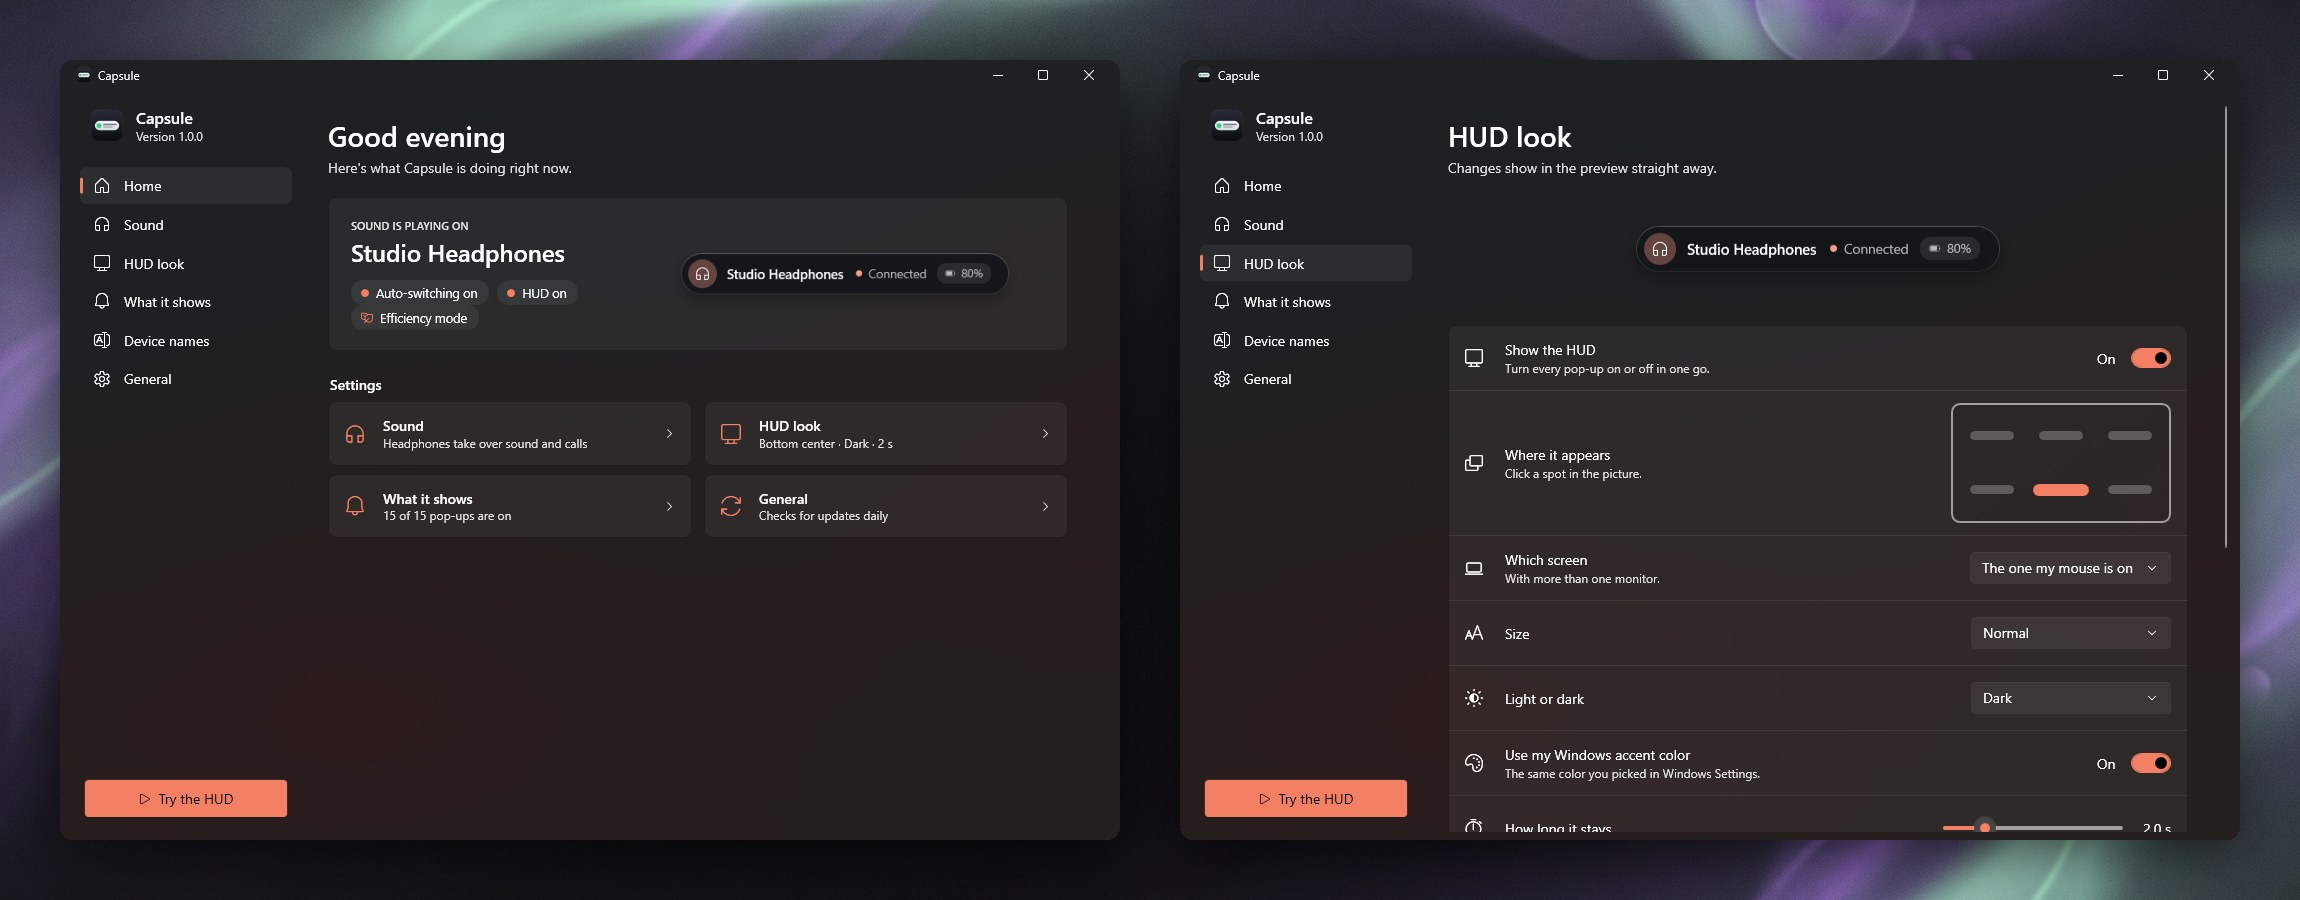
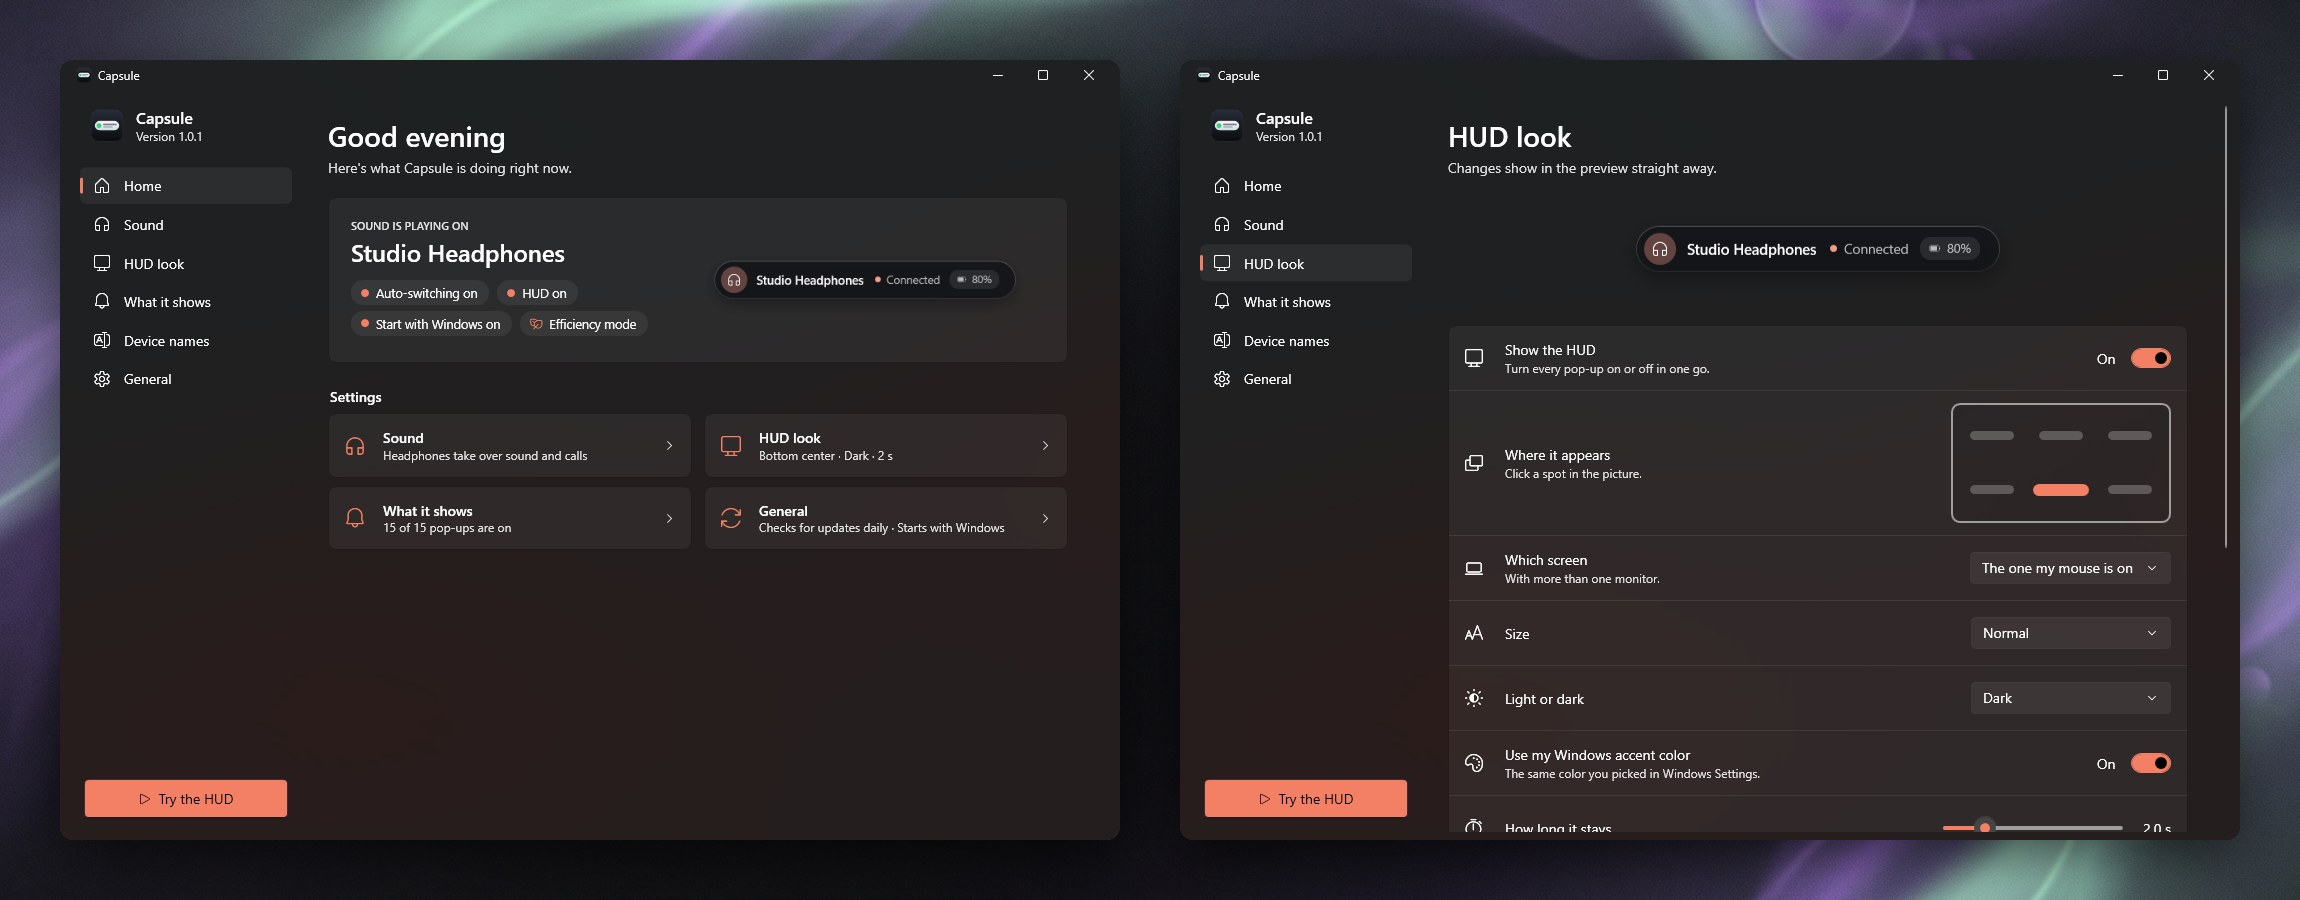
Capsule 1.0.1: show and fix start with Windows
- Home page chip says whether Capsule starts with Windows, including
  when it was switched off in Task Manager
- Turning Start with Windows on also clears a Task Manager switch-off
- Log notes at each start whether start with Windows is on
- Release notes no longer start with a blank line

diff --git a/src/Capsule/UI/SettingsWindow.xaml b/src/Capsule/UI/SettingsWindow.xaml
@@ -74,6 +74,12 @@
                       <TextBlock x:Name="HudChipText" FontSize="12.5" Foreground="{DynamicResource TextFillColorPrimaryBrush}" />
                     </StackPanel>
                   </Border>
+                  <Border Style="{StaticResource Chip}">
+                    <StackPanel Orientation="Horizontal">
+                      <Ellipse x:Name="StartupDot" Width="8" Height="8" Margin="0,0,7,0" VerticalAlignment="Center" />
+                      <TextBlock x:Name="StartupChipText" FontSize="12.5" Foreground="{DynamicResource TextFillColorPrimaryBrush}" />
+                    </StackPanel>
+                  </Border>
                   <Border x:Name="EfficiencyChip" Style="{StaticResource Chip}">
                     <StackPanel Orientation="Horizontal">
                       <TextBlock Text="&#xEC0A;" FontFamily="{StaticResource IconFont}" FontSize="12" Margin="0,1,7,0" VerticalAlignment="Center"
@@ -83,7 +89,7 @@
                   </Border>
                 </WrapPanel>
               </StackPanel>
-              <Border Grid.Column="1" Width="400" Height="104" Margin="12,0,0,0">
+              <Border Grid.Column="1" Width="360" Height="104" Margin="12,0,0,0">
                 <Image x:Name="HomePreview" Stretch="Uniform" StretchDirection="DownOnly" Margin="6" HorizontalAlignment="Center" VerticalAlignment="Center" />
               </Border>
             </Grid>

diff --git a/src/Capsule/UI/Styles.xaml b/src/Capsule/UI/Styles.xaml
@@ -256,7 +256,7 @@
   <Style x:Key="Chip" TargetType="Border">
     <Setter Property="CornerRadius" Value="12" />
     <Setter Property="Padding" Value="10,4,12,4" />
-    <Setter Property="Margin" Value="0,0,8,0" />
+    <Setter Property="Margin" Value="0,0,8,6" />
     <Setter Property="Background" Value="{DynamicResource SubtleFillColorSecondaryBrush}" />
   </Style>
 

diff --git a/src/Capsule/Core/AutoStart.cs b/src/Capsule/Core/AutoStart.cs
@@ -6,6 +6,10 @@ namespace Capsule.Core;
 internal static class AutoStart
 {
     private const string RunKey = @"Software\Microsoft\Windows\CurrentVersion\Run";
+
+    // Where Task Manager's and Settings' "Startup apps" switch keeps its on/off flag for each Run entry.
+    private const string ApprovedKey = @"Software\Microsoft\Windows\CurrentVersion\Explorer\StartupApproved\Run";
+
     private const string ValueName = "Capsule";
     public const string StartupArgument = "--startup";
 
@@ -17,14 +21,23 @@ internal static class AutoStart
 
     public static bool IsEnabled() => IsEnabledFor(ExePath);
 
-    /// <summary>Whether start with Windows is on for the given exe (the installer asks about the installed copy).</summary>
+    /// <summary>
+    /// Whether start with Windows is on for the given exe (the installer asks about the installed copy): the Run entry
+    /// points at it, and it hasn't been switched off in Task Manager or Settings › Apps › Startup.
+    /// </summary>
     public static bool IsEnabledFor(string exePath)
     {
         try
         {
             using var key = Registry.CurrentUser.OpenSubKey(RunKey);
-            return key?.GetValue(ValueName) is string value
-                && string.Equals(value, CommandFor(exePath), StringComparison.OrdinalIgnoreCase);
+            if (key?.GetValue(ValueName) is not string value
+                || !string.Equals(value, CommandFor(exePath), StringComparison.OrdinalIgnoreCase))
+            {
+                return false;
+            }
+
+            using var approved = Registry.CurrentUser.OpenSubKey(ApprovedKey);
+            return !IsSwitchedOff(approved?.GetValue(ValueName) as byte[]);
         }
         catch (Exception ex)
         {
@@ -48,6 +61,12 @@ internal static class AutoStart
                 key.DeleteValue(ValueName, throwOnMissingValue: false);
             }
 
+            // Turning it on in Capsule is the person's latest choice, so it also undoes a switch-off in Task Manager.
+            using (var approved = Registry.CurrentUser.OpenSubKey(ApprovedKey, writable: true))
+            {
+                approved?.DeleteValue(ValueName, throwOnMissingValue: false);
+            }
+
             Log.Info($"Start with Windows: {(enabled ? "on" : "off")}");
         }
         catch (Exception ex)
@@ -55,4 +74,10 @@ internal static class AutoStart
             Log.Error("Could not change the startup setting", ex);
         }
     }
+
+    /// <summary>
+    /// Windows' "Startup apps" flag: the first byte is even (2 or 6) when the entry is on and odd (3 or 7) when it was
+    /// switched off. No flag means on.
+    /// </summary>
+    internal static bool IsSwitchedOff(byte[]? flag) => flag is { Length: > 0 } && (flag[0] & 1) == 1;
 }

diff --git a/src/Capsule/UI/SettingsWindow.xaml.cs b/src/Capsule/UI/SettingsWindow.xaml.cs
@@ -99,7 +99,7 @@ public partial class SettingsWindow : Window
             BuildAccentSwatches(s.HudAccent);
 
             IgnoreVirtualToggle.IsChecked = s.IgnoreVirtualControllers;
-            StartupToggle.IsChecked = AutoStart.IsEnabled();
+            StartupToggle.IsChecked = StartsWithWindows;
 
             LogRow.Description = _app.DemoMode ? @"%LOCALAPPDATA%\Capsule" : Log.Folder;
             AboutRow.Description = $"Capsule {App.Version}. Open source (MIT). No telemetry, no admin rights. The only connections it makes are to GitHub, to check for and download its own updates.";
@@ -548,6 +548,8 @@ public partial class SettingsWindow : Window
 
         SetChip(AutoDot, AutoChipText, s.AutoSwitch, "Auto-switching on", "Auto-switching off");
         SetChip(HudDot, HudChipText, s.HudEnabled, "HUD on", "HUD off");
+        var startsWithWindows = StartsWithWindows;
+        SetChip(StartupDot, StartupChipText, startsWithWindows, "Start with Windows on", "Start with Windows off");
         EfficiencyChip.Visibility = Efficiency.IsOn ? Visibility.Visible : Visibility.Collapsed;
 
         SoundSummary.Text = s.AutoSwitch
@@ -562,8 +564,11 @@ public partial class SettingsWindow : Window
         }.Count(on => on);
         AlertsSummary.Text = $"{shown} of 15 pop-ups are on";
         GeneralSummary.Text = (s.AutoUpdateCheck ? "Checks for updates daily" : "Update checks are off")
-            + (AutoStart.IsEnabled() ? " · Starts with Windows" : "");
+            + (startsWithWindows ? " · Starts with Windows" : "");
     }
+
+    // The screenshot tool shows a normal install rather than reading this PC's start-up entry.
+    private bool StartsWithWindows => _app.DemoMode || AutoStart.IsEnabled();
 
     private static void SetChip(System.Windows.Shapes.Ellipse dot, TextBlock text, bool on, string onText, string offText)
     {

diff --git a/tests/Capsule.Tests/AutoStartTests.cs b/tests/Capsule.Tests/AutoStartTests.cs
@@ -1,0 +1,16 @@
+using Capsule.Core;
+
+namespace Capsule.Tests;
+
+public class AutoStartTests
+{
+    [Theory]
+    [InlineData(null, false)]                       // no flag: Windows treats the entry as on
+    [InlineData(new byte[0], false)]
+    [InlineData(new byte[] { 2, 0, 0, 0 }, false)]  // on
+    [InlineData(new byte[] { 6, 0, 0, 0 }, false)]  // on
+    [InlineData(new byte[] { 3, 0, 0, 0 }, true)]   // switched off in Task Manager or Settings
+    [InlineData(new byte[] { 7, 0, 0, 0 }, true)]   // switched off
+    public void Windows_startup_switch_is_read_from_its_first_byte(byte[]? flag, bool off) =>
+        Assert.Equal(off, AutoStart.IsSwitchedOff(flag));
+}

diff --git a/src/Capsule/App.xaml.cs b/src/Capsule/App.xaml.cs
@@ -199,6 +199,7 @@ public partial class App : Application
         ApplyAppTheme();
         Log.Info($"Capsule {Version} starting{(atSignIn ? " at sign-in" : "")}{(updated ? " after an update" : "")}{(installed ? " after installing" : "")}");
         Log.Info(HudWindow.HasGpu ? "HUD draws on the GPU" : "No GPU acceleration available; HUD draws in software");
+        Log.Info(AutoStart.IsEnabled() ? "Start with Windows is on" : "Start with Windows is off");
         if (updated || installed) Updater.CleanUpAfterUpdate();
         Installer.RefreshAppsEntry();
 

diff --git a/SECURITY.md b/SECURITY.md
@@ -45,7 +45,8 @@ Capsule is designed to have as little power as possible:
   the file when you opened it. Uninstalling removes the program folder, the shortcut, the Apps entry, the start-up
   entry, the settings and the log.
 - **Start with Windows** uses your per-user `Run` registry entry, which you can turn off in Capsule's settings
-  (*General › Start with Windows*).
+  (*General › Start with Windows*). Capsule also respects Windows' own *Startup apps* switch; turning the setting on
+  in Capsule clears a switch-off for Capsule's entry there, and nothing else.
 - **"Hide duplicate pop-ups from keyboard apps"** only acts for 1.5 seconds right after Capsule shows its own pop-up
   (Caps Lock or Num Lock; volume, mic and brightness only for apps you taught). It hides small windows (600 px or less
   at 100% scaling) of a known keyboard app's process, checked by the process's file name and the window's class, or

diff --git a/CHANGELOG.md b/CHANGELOG.md
@@ -1,5 +1,11 @@
 # Changelog
 
+## 1.0.1
+
+- **Home page shows whether Capsule starts with Windows.** A new chip says *Start with Windows on* or *Start with Windows off*, so it's easy to notice when it's off, including when it was switched off in Task Manager.
+- **Turning on *General › Start with Windows* now always works.** It also undoes a switch-off made in Task Manager or in Windows Settings › Apps › Startup.
+- Capsule's log now notes, each time it starts, whether it is set to start with Windows, to help track down start-up problems.
+
 ## 1.0.0
 
 First release.
